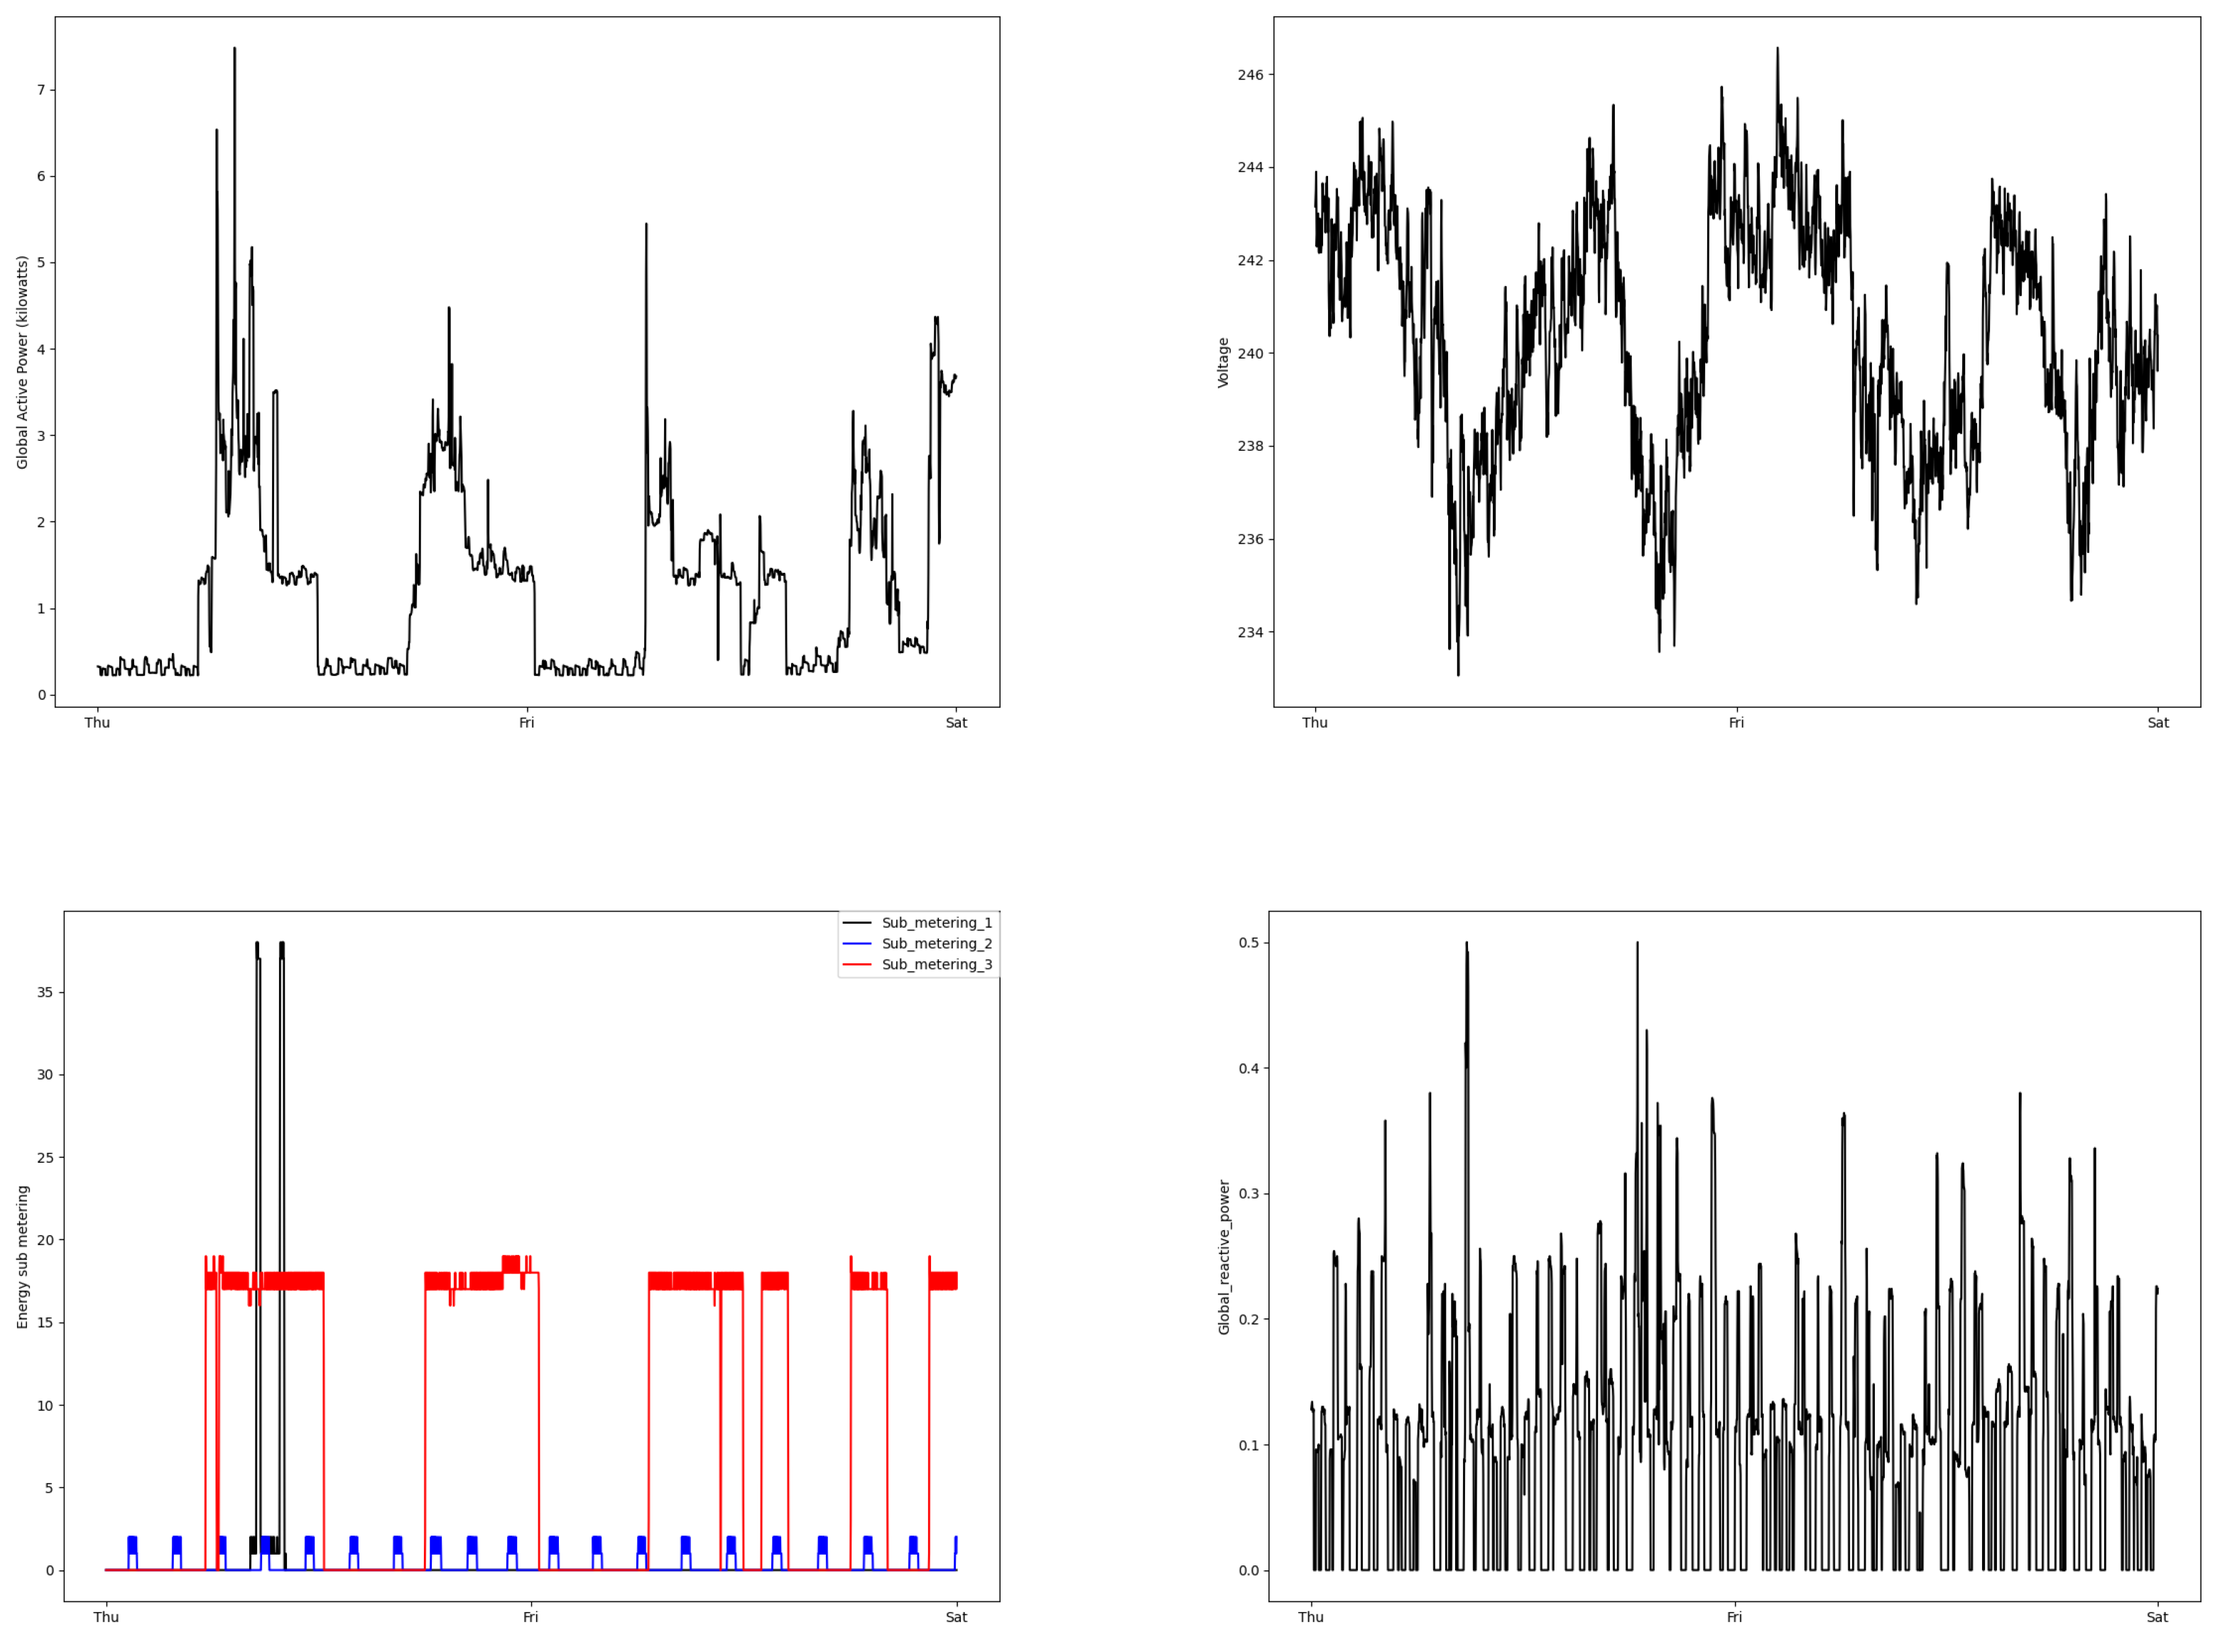
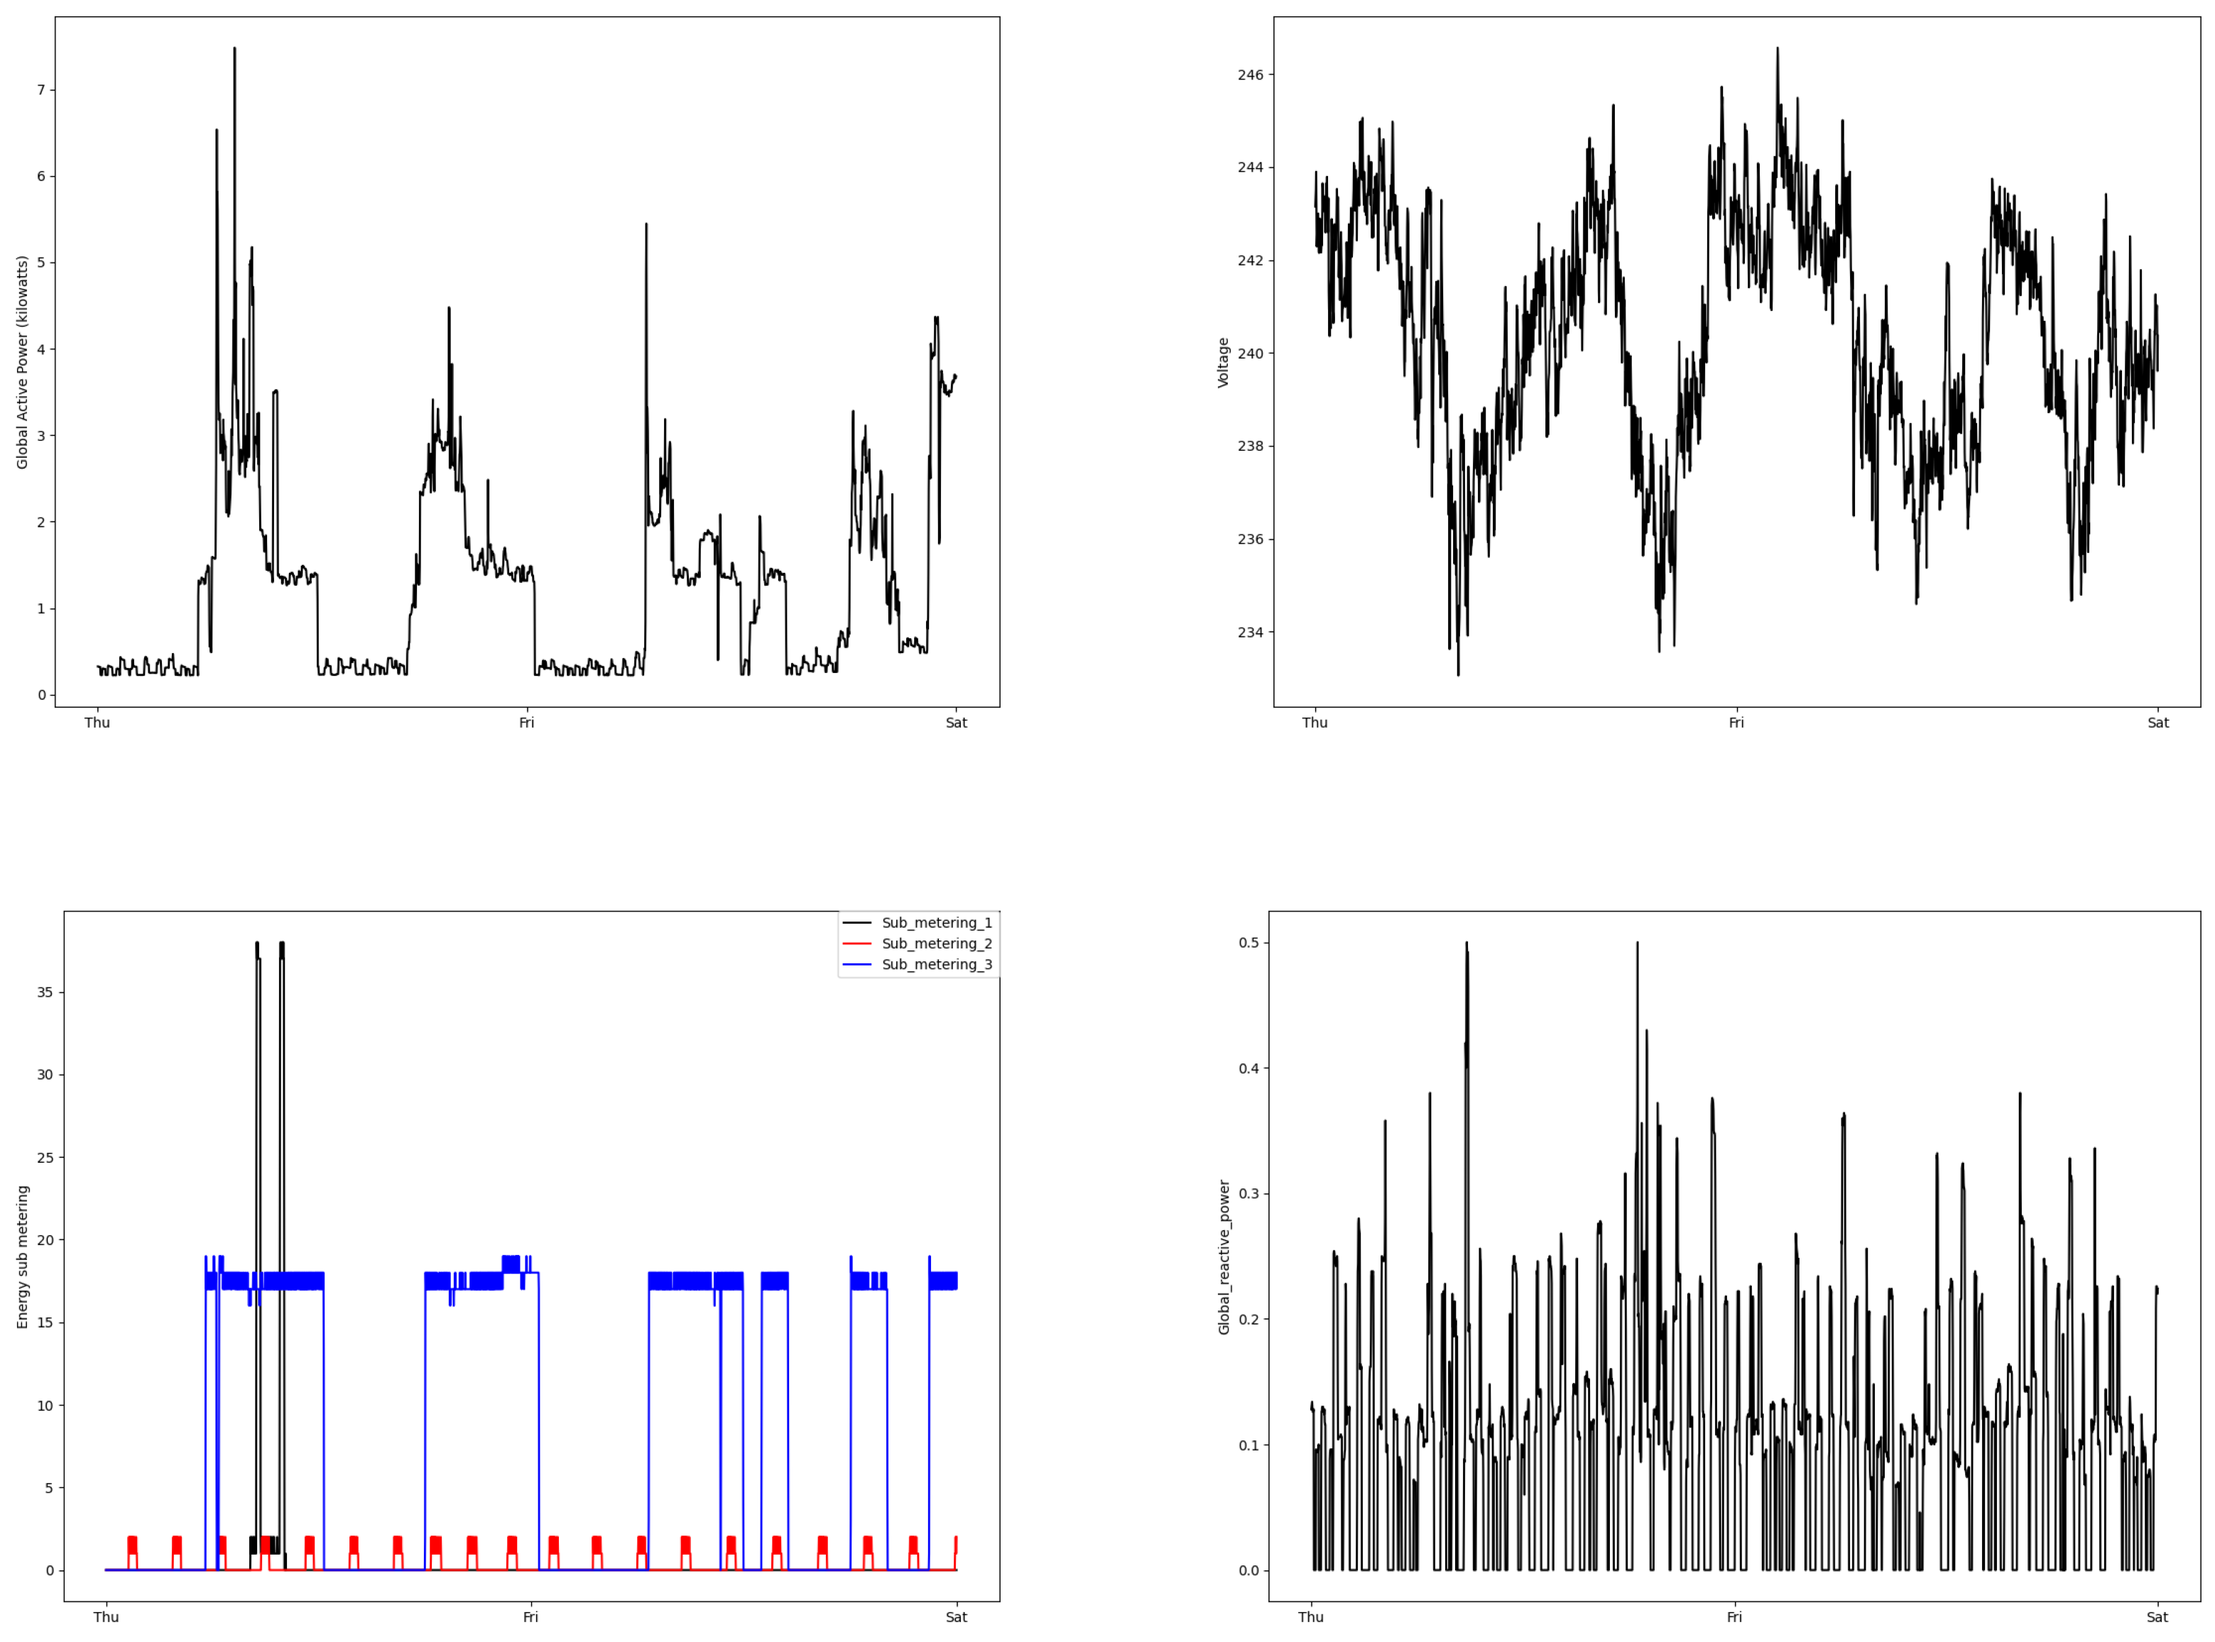
fix plot 4 color

Changed region(s): [[0.0311, 0.7471, 0.4354, 0.965], [0.1866, 0.7471, 0.2488, 0.8093], [0.0933, 0.7471, 0.1555, 0.8093]]

diff --git a/source/Lab_3_electricpower.py b/source/Lab_3_electricpower.py
@@ -155,7 +155,6 @@ def reactive_plot():
 reactive_plot()
 
 def plot4():
-    
     fig = plt.figure(figsize=(40, 30))
     rows = 2
     columns = 2
@@ -164,6 +163,8 @@ def plot4():
     Image3 = cv2.imread('./pics/plot3.png')
     Image4 = cv2.imread('./pics/reactive.png')
     
+    Image3 = cv2.cvtColor(Image3, cv2.COLOR_BGR2RGB)
+
     fig.add_subplot(rows, columns, 1)
     plt.axis('off')
     plt.imshow(Image1)
